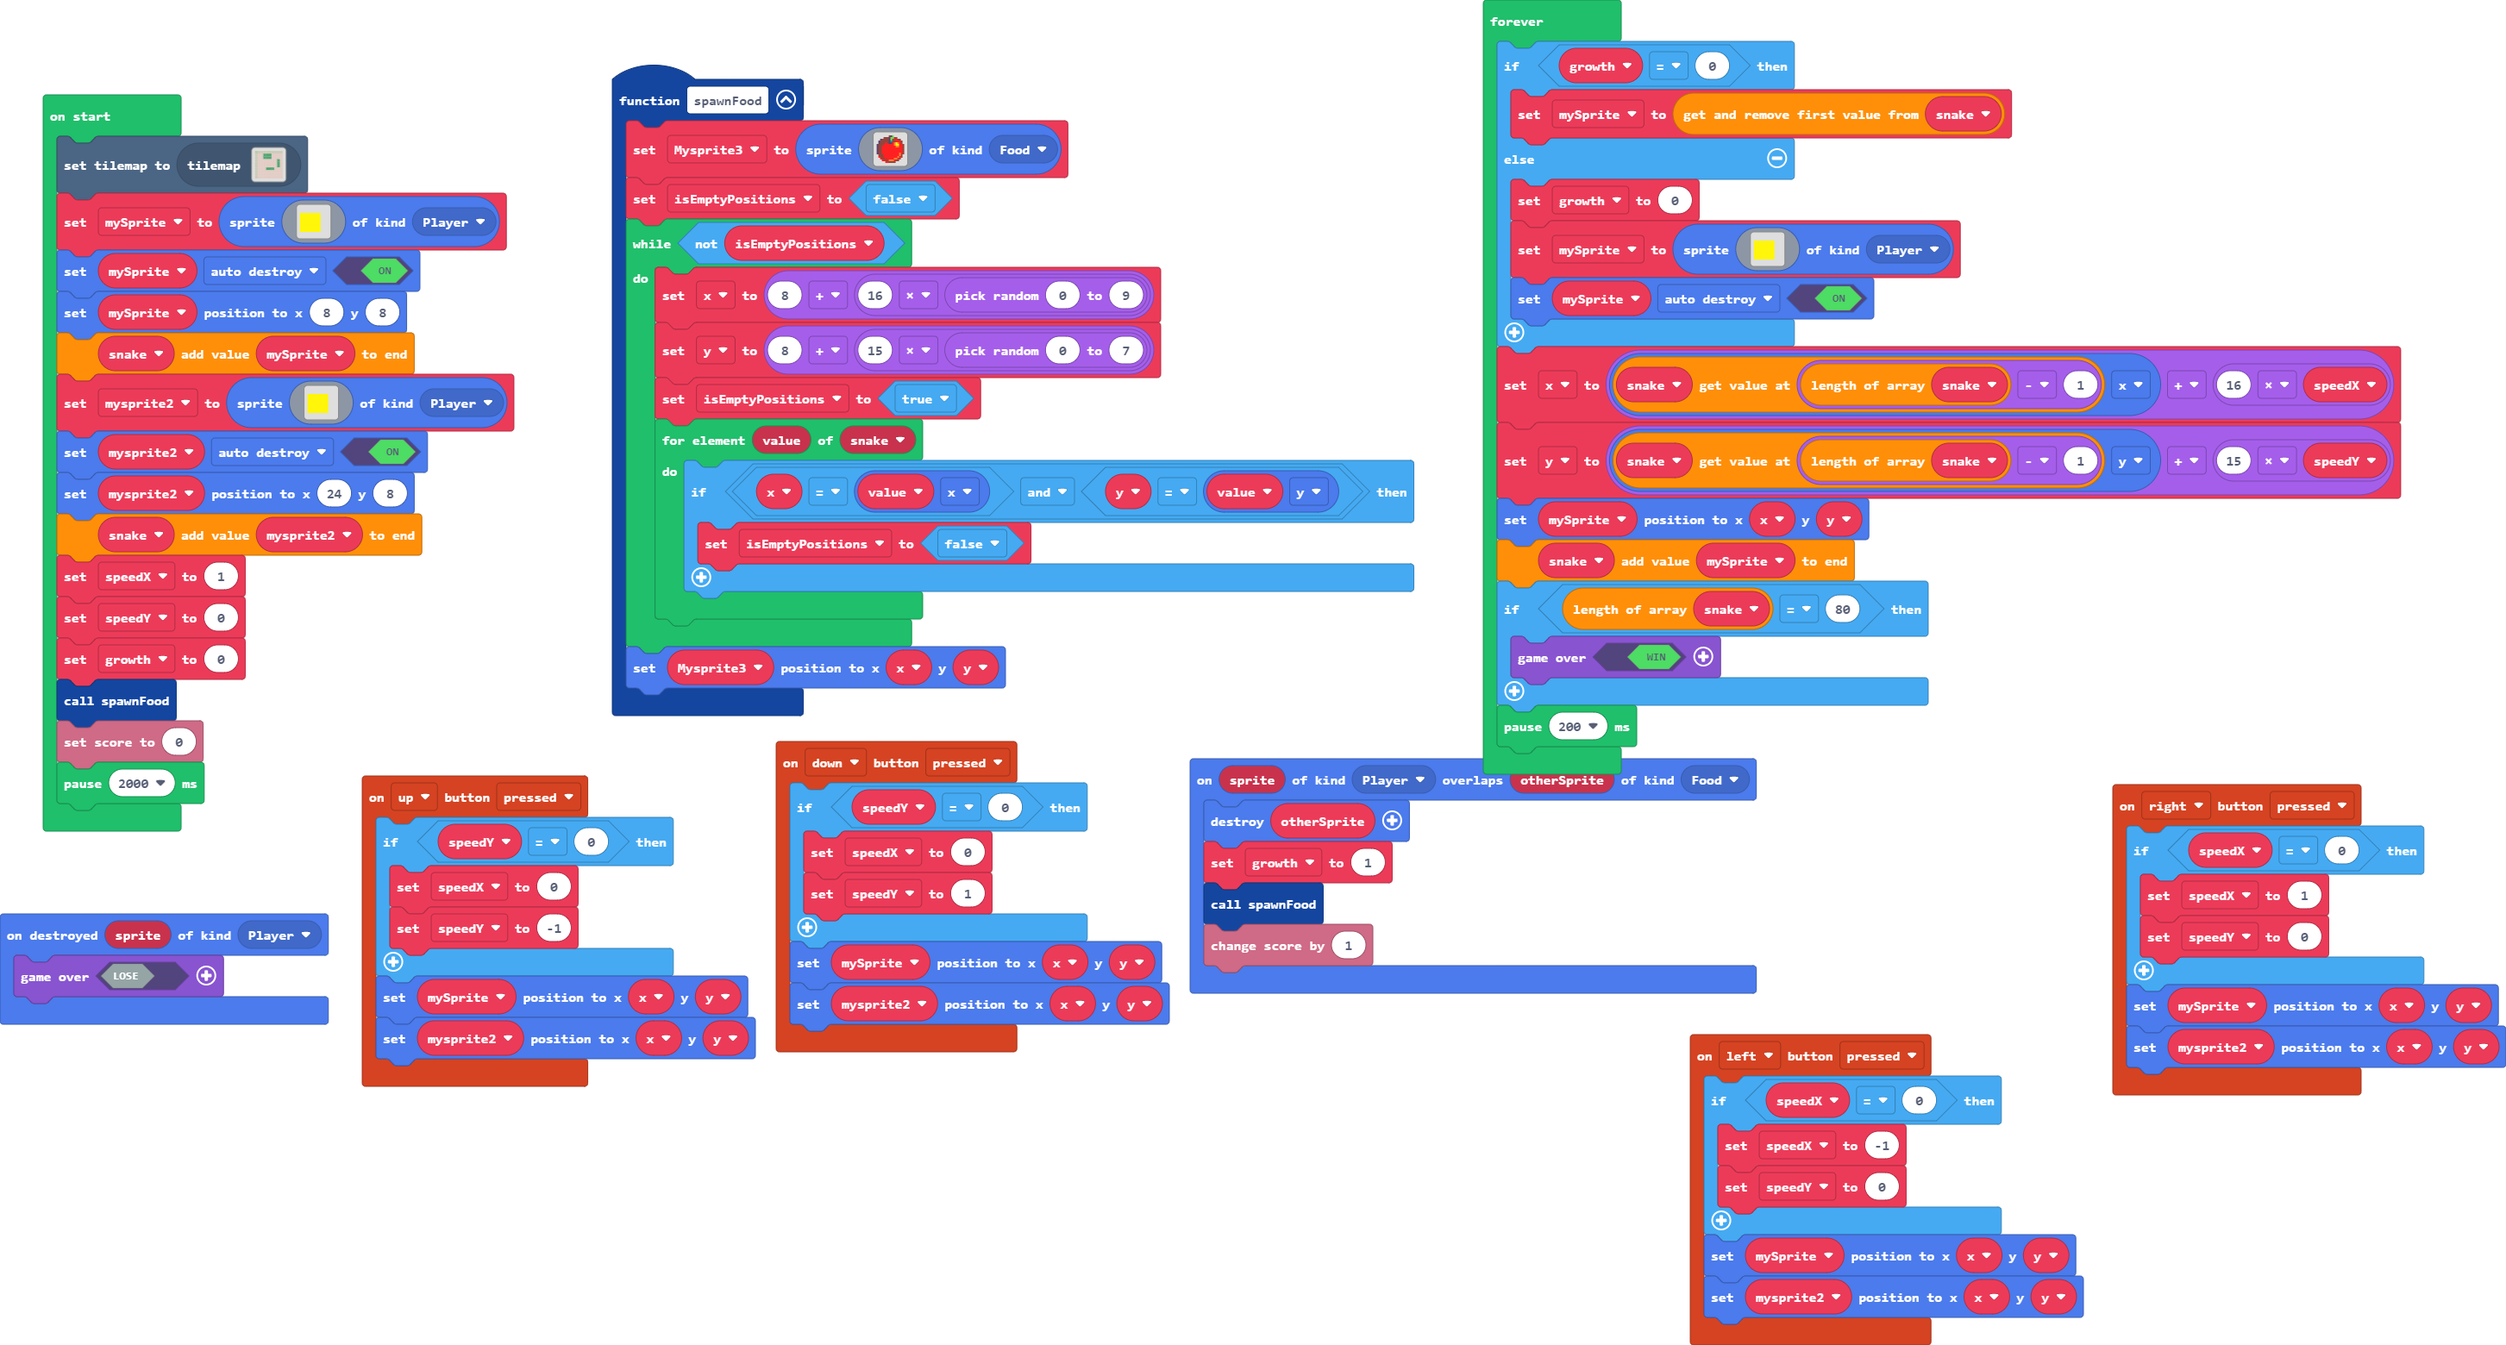
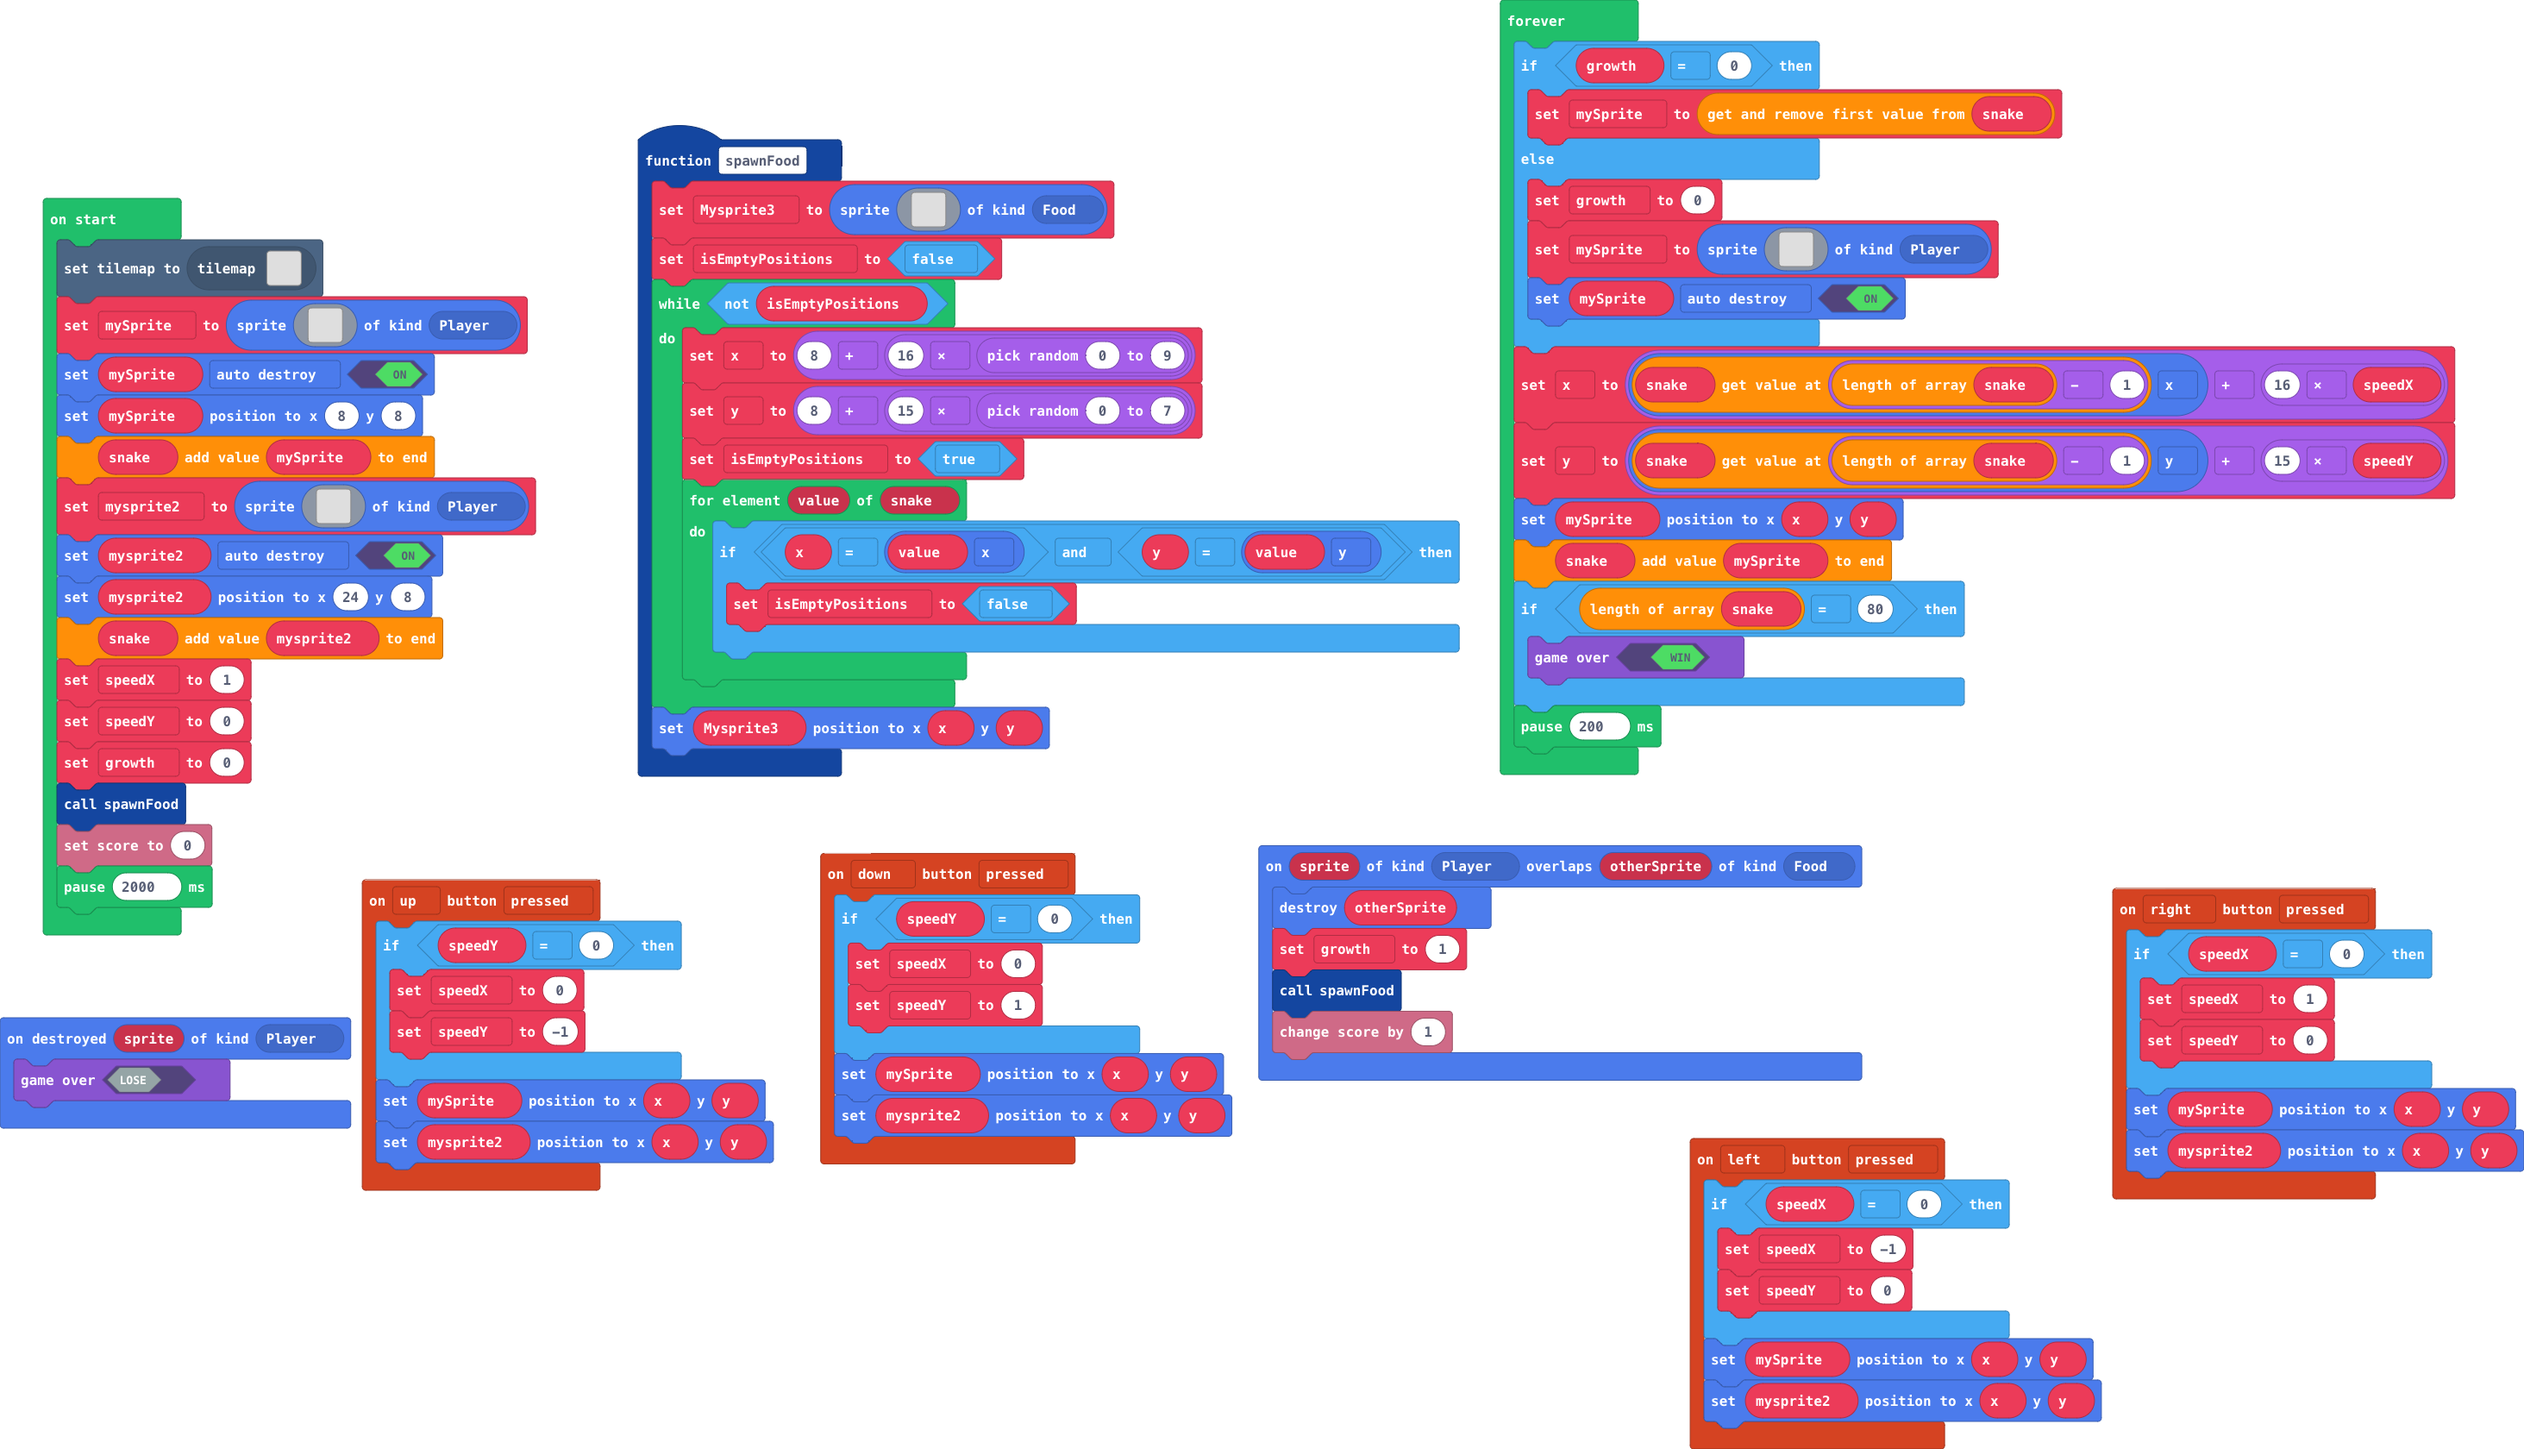
Update main.blocks, main.ts

diff --git a/main.ts b/main.ts
@@ -88,20 +88,20 @@ let mySprite: Sprite = null
 tiles.setCurrentTilemap(tilemap`level2`)
 mySprite = sprites.create(img`
     . . . . . . . . . . . . . . . . 
-    . . . . . . . . . . . . . . . . 
-    . . . . . . . . . . . . . . . . 
-    5 5 5 5 5 5 5 5 5 5 5 5 . . . . 
-    5 5 5 5 5 5 5 5 5 5 5 5 . . . . 
-    5 5 5 5 5 5 5 5 5 5 5 5 . . . . 
-    5 5 5 5 5 5 5 5 5 5 5 5 . . . . 
-    5 5 5 5 5 5 5 5 5 5 5 5 . . . . 
-    5 5 5 5 5 5 5 5 5 5 5 5 . . . . 
-    5 5 5 5 5 5 5 5 5 5 5 5 . . . . 
-    5 5 5 5 5 5 5 5 5 5 5 5 . . . . 
-    5 5 5 5 5 5 5 5 5 5 5 5 . . . . 
-    5 5 5 5 5 5 5 5 5 5 5 5 . . . . 
-    5 5 5 5 5 5 5 5 5 5 5 5 . . . . 
-    . . . . . . . . . . . . . . . . 
+    . 5 5 5 5 5 5 5 5 5 5 5 5 5 5 . 
+    . 5 5 5 5 5 5 5 5 5 5 5 5 5 5 . 
+    . 5 5 5 5 5 5 5 5 5 5 5 5 5 5 . 
+    . 5 5 5 5 5 5 5 5 5 5 5 5 5 5 . 
+    . 5 5 5 5 5 5 5 5 5 5 5 5 5 5 . 
+    . 5 5 5 5 5 5 5 5 5 5 5 5 5 5 . 
+    . 5 5 5 5 5 5 5 5 5 5 5 5 5 5 . 
+    . 5 5 5 5 5 5 5 5 5 5 5 5 5 5 . 
+    . 5 5 5 5 5 5 5 5 5 5 5 5 5 5 . 
+    . 5 5 5 5 5 5 5 5 5 5 5 5 5 5 . 
+    . 5 5 5 5 5 5 5 5 5 5 5 5 5 5 . 
+    . 5 5 5 5 5 5 5 5 5 5 5 5 5 5 . 
+    . 5 5 5 5 5 5 5 5 5 5 5 5 5 5 . 
+    . 5 5 5 5 5 5 5 5 5 5 5 5 5 5 . 
     . . . . . . . . . . . . . . . . 
     `, SpriteKind.Player)
 mySprite.setFlag(SpriteFlag.AutoDestroy, true)
@@ -109,20 +109,20 @@ mySprite.setPosition(8, 8)
 snake.push(mySprite)
 mysprite2 = sprites.create(img`
     . . . . . . . . . . . . . . . . 
-    . . . . . . . . . . . . . . . . 
-    . . . . . . . . . . . . . . . . 
-    5 5 5 5 5 5 5 5 5 5 5 5 . . . . 
-    5 5 5 5 5 5 5 5 5 5 5 5 . . . . 
-    5 5 5 5 5 5 5 5 5 5 5 5 . . . . 
-    5 5 5 5 5 5 5 5 5 5 5 5 . . . . 
-    5 5 5 5 5 5 5 5 5 5 5 5 . . . . 
-    5 5 5 5 5 5 5 5 5 5 5 5 . . . . 
-    5 5 5 5 5 5 5 5 5 5 5 5 . . . . 
-    5 5 5 5 5 5 5 5 5 5 5 5 . . . . 
-    5 5 5 5 5 5 5 5 5 5 5 5 . . . . 
-    5 5 5 5 5 5 5 5 5 5 5 5 . . . . 
-    5 5 5 5 5 5 5 5 5 5 5 5 . . . . 
-    . . . . . . . . . . . . . . . . 
+    . 5 5 5 5 5 5 5 5 5 5 5 5 5 5 . 
+    . 5 5 5 5 5 5 5 5 5 5 5 5 5 5 . 
+    . 5 5 5 5 5 5 5 5 5 5 5 5 5 5 . 
+    . 5 5 5 5 5 5 5 5 5 5 5 5 5 5 . 
+    . 5 5 5 5 5 5 5 5 5 5 5 5 5 5 . 
+    . 5 5 5 5 5 5 5 5 5 5 5 5 5 5 . 
+    . 5 5 5 5 5 5 5 5 5 5 5 5 5 5 . 
+    . 5 5 5 5 5 5 5 5 5 5 5 5 5 5 . 
+    . 5 5 5 5 5 5 5 5 5 5 5 5 5 5 . 
+    . 5 5 5 5 5 5 5 5 5 5 5 5 5 5 . 
+    . 5 5 5 5 5 5 5 5 5 5 5 5 5 5 . 
+    . 5 5 5 5 5 5 5 5 5 5 5 5 5 5 . 
+    . 5 5 5 5 5 5 5 5 5 5 5 5 5 5 . 
+    . 5 5 5 5 5 5 5 5 5 5 5 5 5 5 . 
     . . . . . . . . . . . . . . . . 
     `, SpriteKind.Player)
 mysprite2.setFlag(SpriteFlag.AutoDestroy, true)
@@ -141,20 +141,20 @@ forever(function () {
         growth = 0
         mySprite = sprites.create(img`
             . . . . . . . . . . . . . . . . 
-            . . . . . . . . . . . . . . . . 
-            . . . . . . . . . . . . . . . . 
-            5 5 5 5 5 5 5 5 5 5 5 5 . . . . 
-            5 5 5 5 5 5 5 5 5 5 5 5 . . . . 
-            5 5 5 5 5 5 5 5 5 5 5 5 . . . . 
-            5 5 5 5 5 5 5 5 5 5 5 5 . . . . 
-            5 5 5 5 5 5 5 5 5 5 5 5 . . . . 
-            5 5 5 5 5 5 5 5 5 5 5 5 . . . . 
-            5 5 5 5 5 5 5 5 5 5 5 5 . . . . 
-            5 5 5 5 5 5 5 5 5 5 5 5 . . . . 
-            5 5 5 5 5 5 5 5 5 5 5 5 . . . . 
-            5 5 5 5 5 5 5 5 5 5 5 5 . . . . 
-            5 5 5 5 5 5 5 5 5 5 5 5 . . . . 
-            . . . . . . . . . . . . . . . . 
+            . 5 5 5 5 5 5 5 5 5 5 5 5 5 5 . 
+            . 5 5 5 5 5 5 5 5 5 5 5 5 5 5 . 
+            . 5 5 5 5 5 5 5 5 5 5 5 5 5 5 . 
+            . 5 5 5 5 5 5 5 5 5 5 5 5 5 5 . 
+            . 5 5 5 5 5 5 5 5 5 5 5 5 5 5 . 
+            . 5 5 5 5 5 5 5 5 5 5 5 5 5 5 . 
+            . 5 5 5 5 5 5 5 5 5 5 5 5 5 5 . 
+            . 5 5 5 5 5 5 5 5 5 5 5 5 5 5 . 
+            . 5 5 5 5 5 5 5 5 5 5 5 5 5 5 . 
+            . 5 5 5 5 5 5 5 5 5 5 5 5 5 5 . 
+            . 5 5 5 5 5 5 5 5 5 5 5 5 5 5 . 
+            . 5 5 5 5 5 5 5 5 5 5 5 5 5 5 . 
+            . 5 5 5 5 5 5 5 5 5 5 5 5 5 5 . 
+            . 5 5 5 5 5 5 5 5 5 5 5 5 5 5 . 
             . . . . . . . . . . . . . . . . 
             `, SpriteKind.Player)
         mySprite.setFlag(SpriteFlag.AutoDestroy, true)
